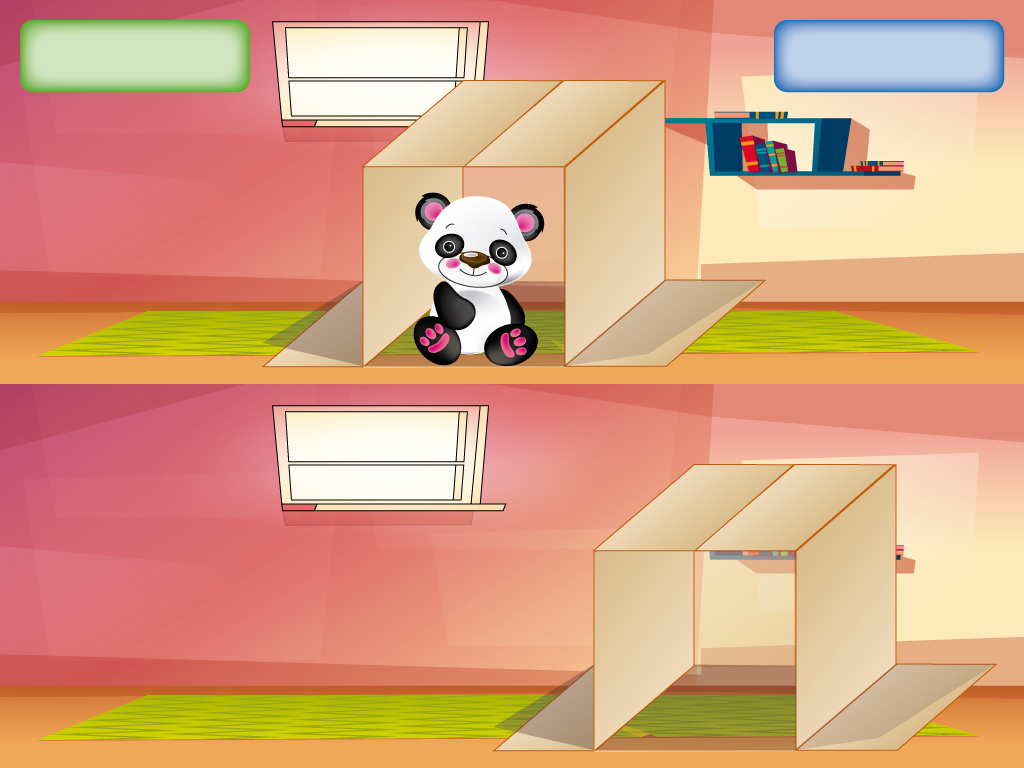
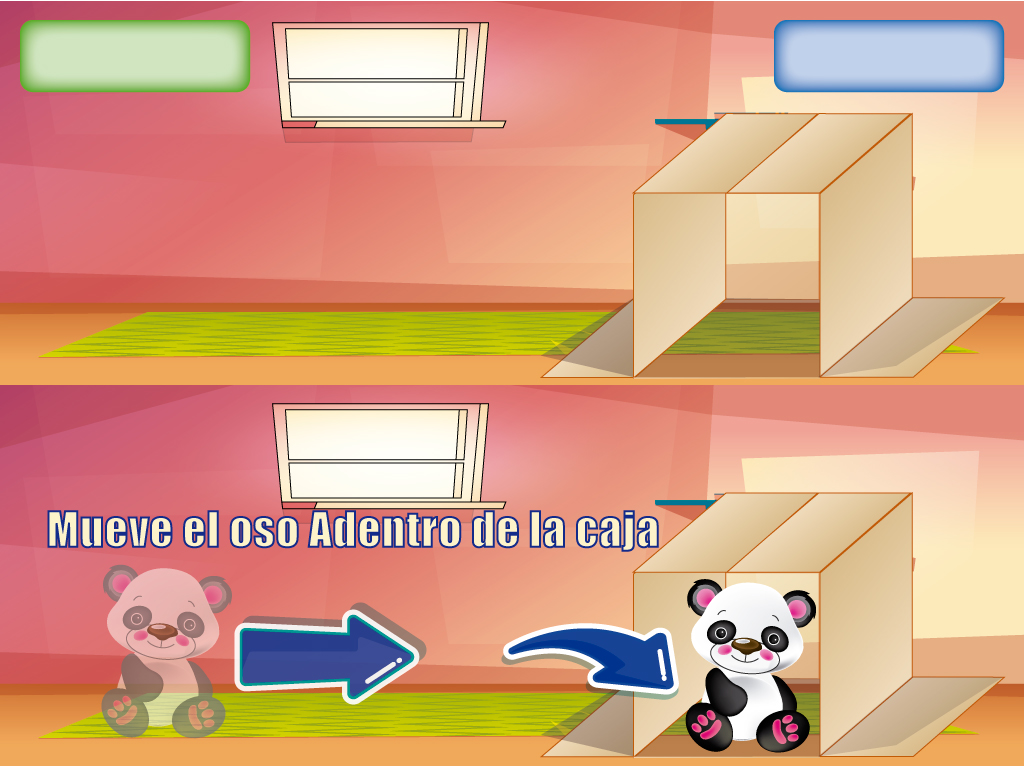
Cambios en las Imagenes de Fondo deñ Juego Adentro Afuera

diff --git a/JuegoFinal/main.py b/JuegoFinal/main.py
@@ -91,6 +91,7 @@ class IdleScreen():
 		self.bgImageDebajo = pygame.transform.flip(pygame.image.load("Imagenes/fondoDebajo.jpg").convert(), 1, 0)
 		self.clock = pygame.time.Clock()
 		self.font = pygame.font.SysFont("gaban", 55)
+		self.fontLogro = pygame.font.SysFont("gaban", 80)
 		self.fontPuntaje = pygame.font.SysFont("Answer", 35)
 		self.fontTiempo = pygame.font.SysFont("Answer", 25)
 		self.fontFinJuego = pygame.font.SysFont("RicksAmericanNF", 55)
@@ -648,7 +649,7 @@ class IdleScreen():
 				FlechaIzquierdaGrande.dibujar(screen)
 			# llamada a que se dibuje la nave espacial
 			jugador.dibujar(screen)
-			# Verificar que el Puntaje sea igual a 20 Huevos o el Tiempo Transcurrido sea igual al limite
+			# Verificar que el Puntaje sea igual a 10 Huevos o el Tiempo Transcurrido sea igual al limite
 			if puntos.score == 10 or Tempo.temporal == 4500:
 				enJuego = False
 				self.detenerTodo()
@@ -1624,28 +1625,28 @@ class IdleScreen():
 			# Cargar la Palabra de la actividad
 			TxtActividad = pygame.transform.flip(self.font.render(actividad, 1, (0,0,255)), 1, 0)
 			#Cargar la Palabra de Fin del JUEGO
-			Texto = pygame.transform.flip(self.font.render("Lo lograste", 1, (255,14,0)), 1, 0)
+			Texto = pygame.transform.flip(self.fontLogro.render("Lo lograste", 1, (56,130,194)), 1, 0)
 			# Verificar Que actividad se esta ejecutando
 			if actividad == "Adentro":
 				posOsoX = 150
-				posOsoY = 150
-				posObjX = 250
-				posObjY = 670
+				posOsoY = 510
+				posObjX = 240
+				posObjY = 310
 			elif actividad == "Afuera":
 				posOsoX = 750
-				posOsoY = 120
+				posOsoY = 510
 				posObjX = 800
-				posObjY = 670
+				posObjY = 310
 			elif actividad == "Encima":
 				posOsoX = 150
-				posOsoY = 150
+				posOsoY = 510
 				posObjX = 460
-				posObjY = 530
+				posObjY = 170
 			elif actividad == "Debajo":
 				posOsoX = 150
-				posOsoY = 150
+				posOsoY = 510
 				posObjX = 460
-				posObjY = 685
+				posObjY = 320
 
 			# Instancia del objeto Cuadro
 			ObjJug = Oso.Osito(self.scrWidth, self.scrHeight, posOsoX, posOsoY)
@@ -1725,7 +1726,7 @@ class IdleScreen():
 				elif actividad == "Debajo":
 					self.screen.blit(self.bgImageDebajo, (0, 0))
 				# Se Muestra la Actividad a Realizar
-				screen.blit(TxtActividad, (400,20))
+				screen.blit(TxtActividad, (400,10))
 				# Se muestra el tiempo de la actividad
 				Tempo.update_actividad(screen)
 				Tempo2.update(screen)
@@ -1746,7 +1747,7 @@ class IdleScreen():
 
 				#Verificar Colision del Jugador con el Objetivo
 				if ObjJug.rect.collidepoint(self.scrWidth - posObjX,posObjY):
-					screen.blit(Texto, (350,400))
+					screen.blit(Texto, (530,350))
 					puntos.score = 1
 					print "Colisiono el Jugador"
 
@@ -2636,7 +2637,7 @@ class IdleScreen():
 					self.menuItemsInstrucciones[self.activeFocus].applyFocus(self.screen)
 					self.menuItemsInstrucciones[self.lastActiveFocus].removeFocus()
 				except IndexError:
-					print "Error de Asignacion de Juego " + str(NroJuego)
+					print "Asignacion de Juego " + str(NroJuego)
 
 				# Se muestra el menú de la Interfaz de Introduccion
 				for item in self.menuItemsInstrucciones:
